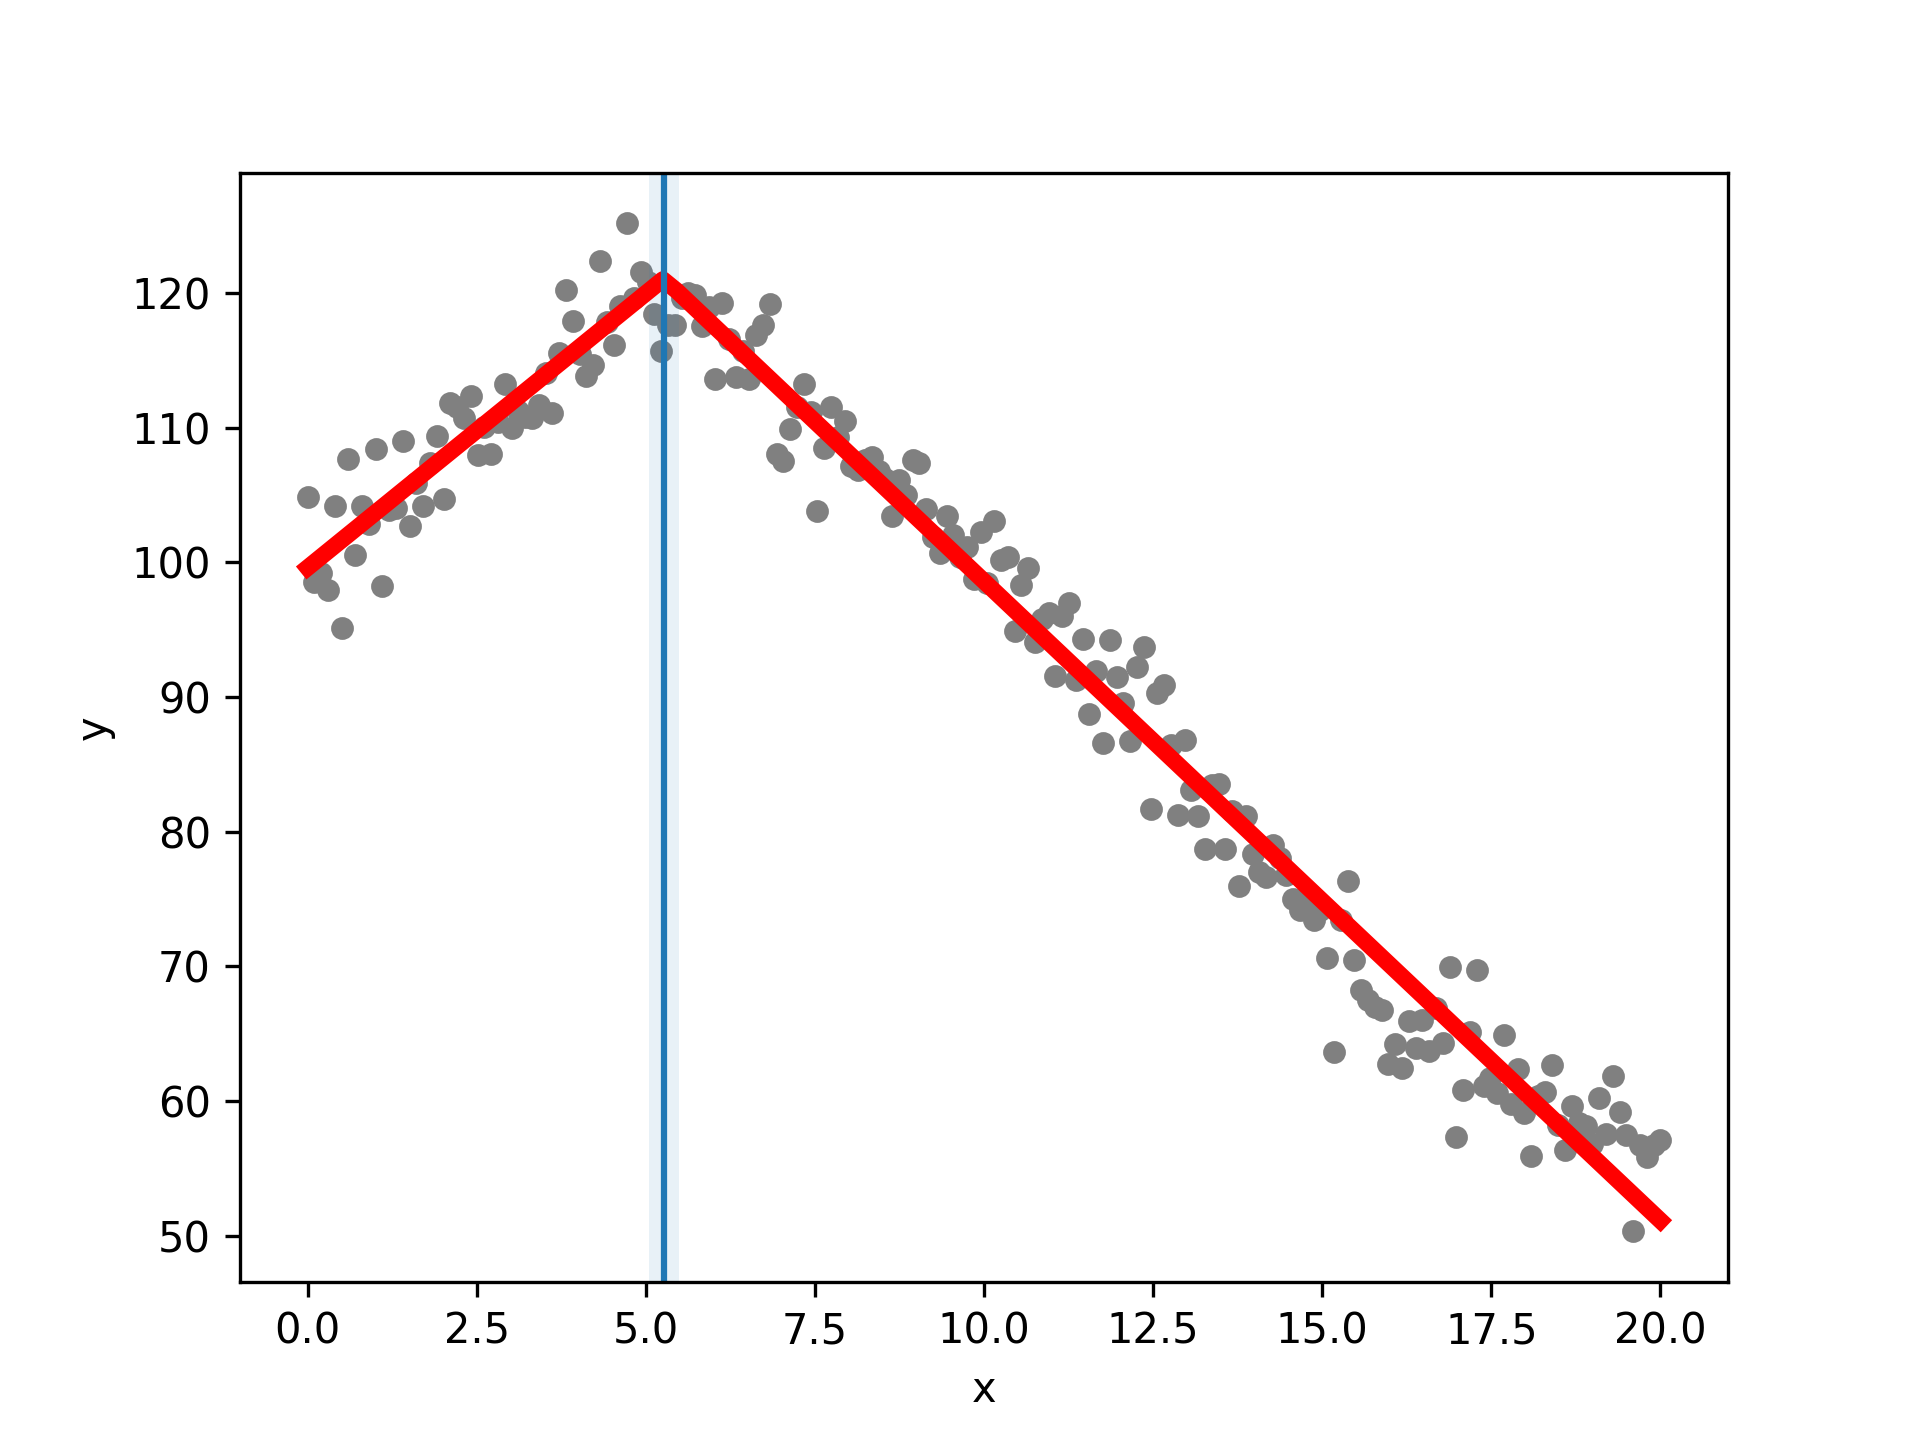
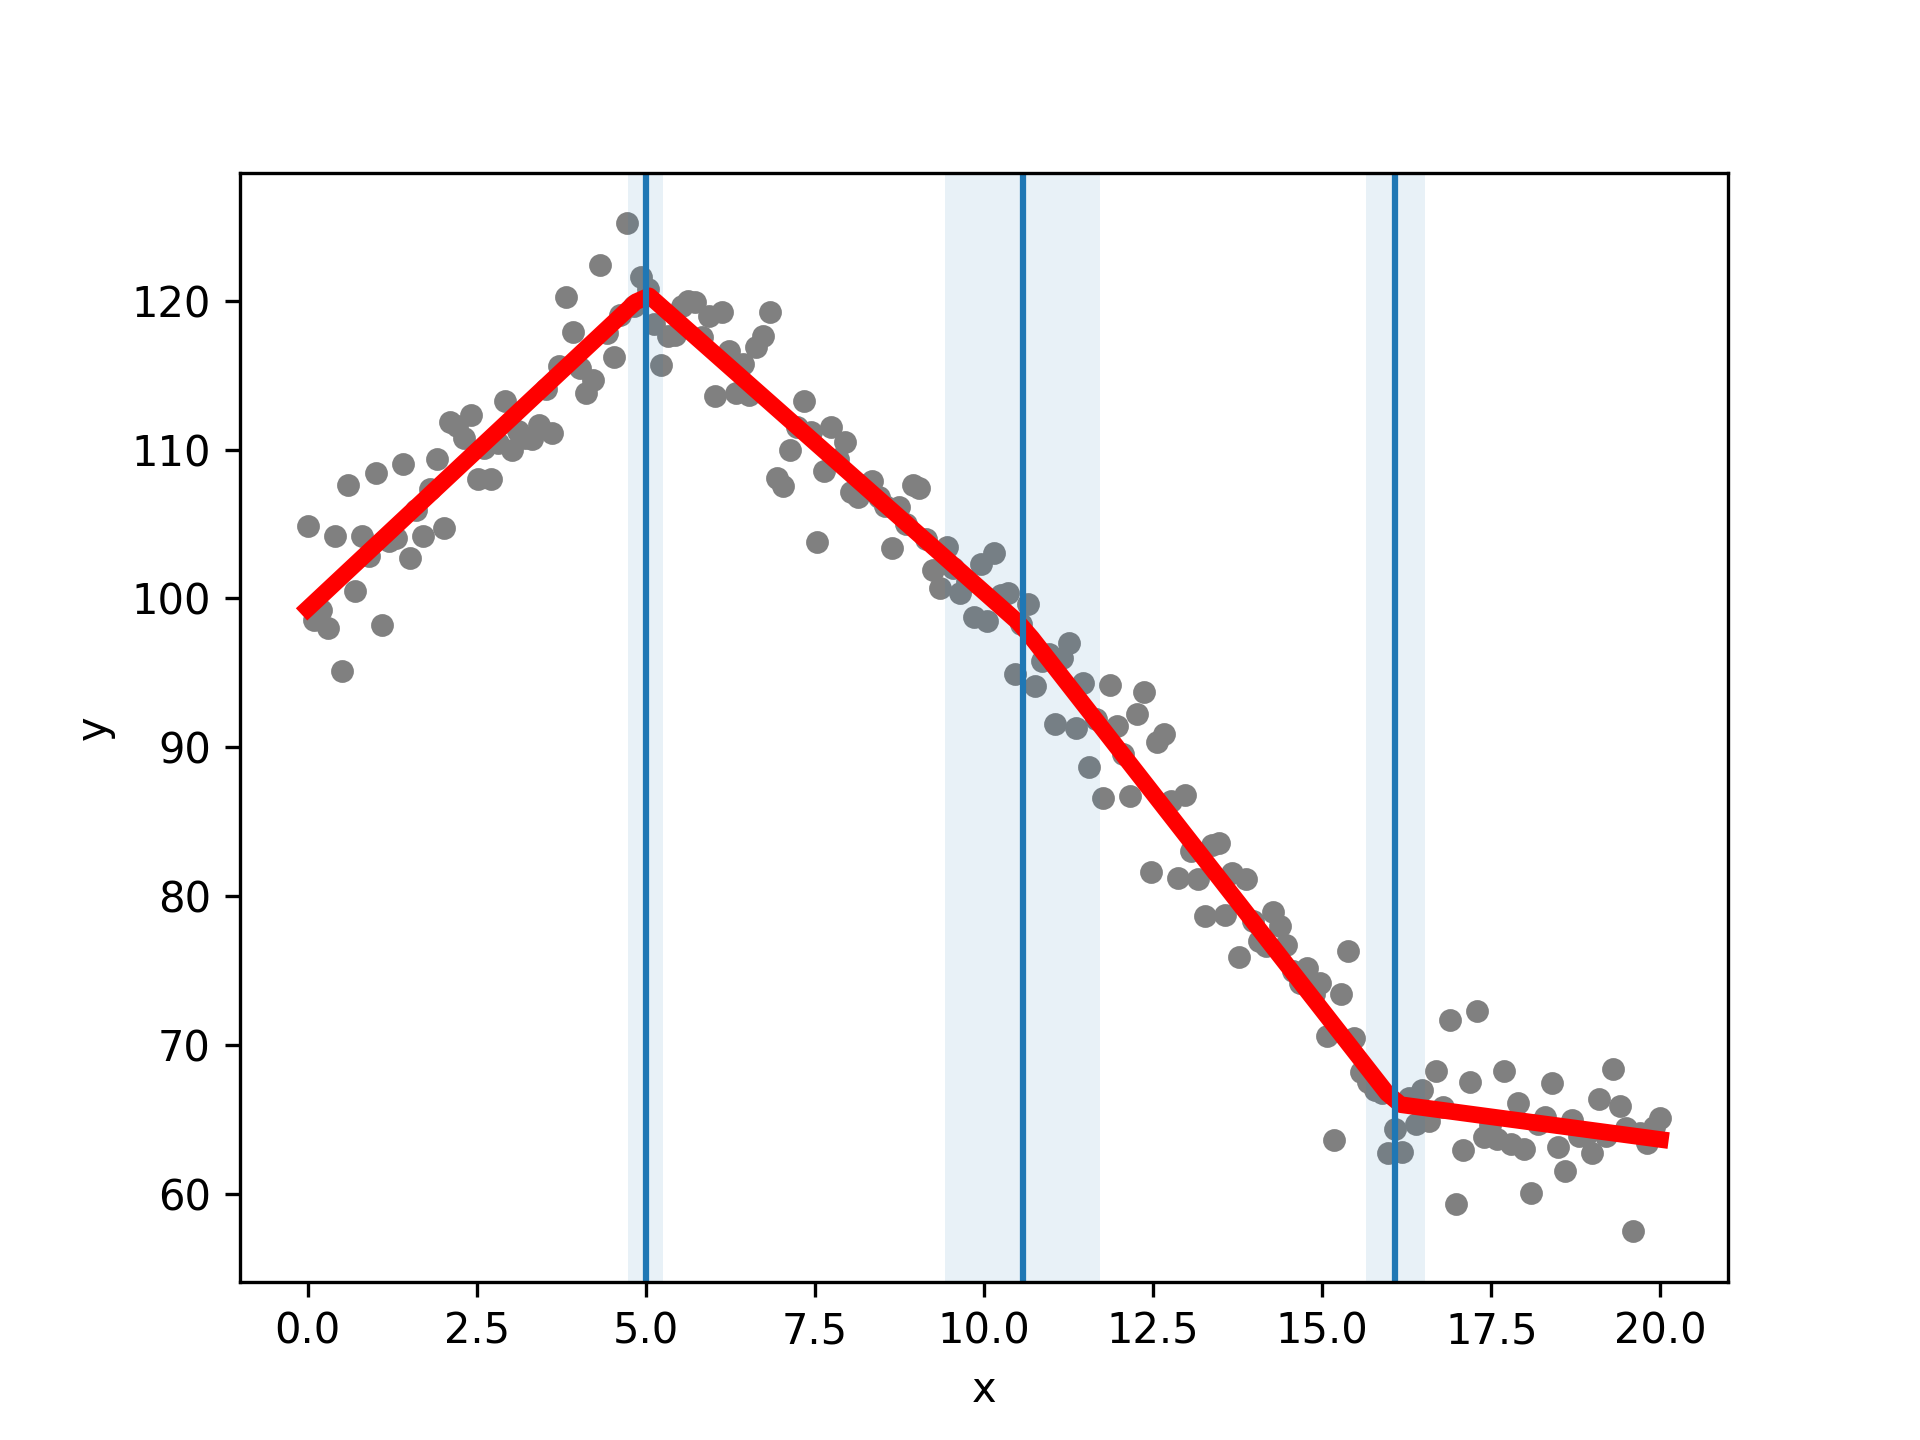
Changed the plot in the docs

diff --git a/paper/paper.py b/paper/paper.py
@@ -18,7 +18,7 @@ def plot_basic_example():
     alpha = 4
     beta_1 = -8
     beta_2 = -2
-    beta_3 = 3
+    beta_3 = 5
     intercept = 100
     breakpoint_1 = 5
     breakpoint_2 = 11
@@ -35,10 +35,7 @@ def plot_basic_example():
     yy += beta_3 * np.maximum(xx - breakpoint_3, 0)
     yy += np.random.normal(size=n_points) * noise
 
-    print(xx, yy)
-
-
-    bp_fit = Fit(xx, yy, start_values=[7])
+    bp_fit = Fit(xx, yy, start_values=[3,7,10])
 
     bp_fit.summary()
 
@@ -49,8 +46,6 @@ def plot_basic_example():
     
     plt.xlabel("x")
     plt.ylabel("y")
-
-    print("BIC is :", bp_fit.calculate_bayesian_information_criterion())
 
     plt.savefig("example.png", dpi=300)
     
@@ -105,4 +100,4 @@ def model_selection_basic_example():
     ms = ModelSelection(xx, yy, max_breakpoints=6)
 
 if __name__=="__main__":
-    model_selection_basic_example()
+    plot_basic_example()

diff --git a/README.rst b/README.rst
@@ -22,25 +22,37 @@ The package requires some x and y data to fit. You also need to specify either a
 Example
 ========================
 
-Here is a more detailed example. We start off genreating some data with a breakpoint, for demonstration purposes: ::
+Here is a more detailed example. We start off genreating some data with 3 breakpoints, for demonstration purposes: ::
 
 	import piecewise_regression
 	import numpy as np
 
-	alpha_1 = -4    
-	alpha_2 = -2
-	intercept = 100
-	breakpoint_1 = 7
-	n_points = 200
-	np.random.seed(0)
-	xx = np.linspace(0, 20, n_points)
-	yy = intercept + alpha_1*xx + (alpha_2-alpha_1) * np.maximum(xx - breakpoint_1, 0) + np.random.normal(size=n_points)
+	np.random.seed(1)
+
+    alpha = 4
+    beta_1 = -8
+    beta_2 = -2
+    beta_3 = 5
+    intercept = 100
+    breakpoint_1 = 5
+    breakpoint_2 = 11
+    breakpoint_3 = 16
+    n_points = 200
+    noise=3
+
+    xx = np.linspace(0, 20, n_points)
+
+    yy = intercept + alpha*xx 
+    yy += beta_1 * np.maximum(xx - breakpoint_1, 0) 
+    yy += beta_2 * np.maximum(xx - breakpoint_2, 0)  
+    yy += beta_3 * np.maximum(xx - breakpoint_3, 0)
+    yy += np.random.normal(size=n_points) * noise
 
 
 Now we fit the model: ::
 
     # Given some data, fit the model
-    bp_fit = Fit(xx, yy, start_values=[5], n_breakpoints=1)
+    bp_fit = piecewise_regression.Fit(xx, yy, start_values=[3,7,10])
 
     # Print a summary of the fit
     bp_fit.summary()
@@ -50,28 +62,34 @@ Example output: ::
 	                    Breakpoint Regression Results                     
 	====================================================================================================
 	No. Observations                      200
-	No. Model Parameters                    4
-	Degrees of Freedom                    196
-	Res. Sum of Squares               193.264
-	Total Sum of Squares              46201.8
-	R Squared                        0.995817
-	Adjusted R Squared               0.995731
+	No. Model Parameters                    8
+	Degrees of Freedom                    192
+	Res. Sum of Squares               1448.83
+	Total Sum of Squares              77195.4
+	R Squared                        0.981232
+	Adjusted R Squared               0.980446
 	Converged:                           True
 	====================================================================================================
 	====================================================================================================
 	                    Estimate      Std Err            t        P>|t|       [0.025       0.975]
 	----------------------------------------------------------------------------------------------------
-	const                100.726        0.244       413.63     3.1e-290       100.25       101.21
-	alpha1              -4.21998       0.0653      -64.605    4.37e-134      -4.3488      -4.0912
-	beta1                2.18914       0.0689       31.788            -       2.0533        2.325
-	breakpoint1          6.48706        0.137            -            -       6.2168       6.7573
+	const                99.3134        0.765       129.77    5.73e-189       97.804       100.82
+	alpha1               4.24777        0.268       15.861      9.3e-37       3.7196        4.776
+	beta1               -8.26555        0.347      -23.848            -      -8.9492      -7.5819
+	beta2               -1.80202        0.325      -5.5523            -      -2.4422      -1.1619
+	beta3                5.21108        0.456       11.423            -       4.3113       6.1109
+	breakpoint1          4.99612        0.129            -            -       4.7419       5.2503
+	breakpoint2           10.573        0.581            -            -        9.428       11.718
+	breakpoint3          16.0829        0.223            -            -       15.644       16.522
 	----------------------------------------------------------------------------------------------------
 	These alphas(gradients of segments) are estimated from betas(change in gradient)
 	----------------------------------------------------------------------------------------------------
-	alpha2              -2.03084       0.0218      -93.068    3.66e-164      -2.0739      -1.9878
+	alpha2              -4.01778         0.22      -18.262     7.58e-44      -4.4517      -3.5838
+	alpha3              -5.81981        0.239      -24.391     1.02e-60      -6.2904      -5.3492
+	alpha4             -0.608729        0.389      -1.5656        0.119      -1.3756      0.15816
 	====================================================================================================
 
-	Davies test for existence of at least 1 breakpoint: p=5.13032e-295 (e.g. p<0.05 means reject null hypothesis of no breakpoints at 5% significance)
+	Davies test for existence of at least 1 breakpoint: p=0.0 (e.g. p<0.05 means reject null hypothesis of no breakpoints at 5% significance)
 
 There are also tools for plotting data: ::
 
@@ -88,7 +106,7 @@ There are also tools for plotting data: ::
 	plt.show()
 	plt.close()
 
-.. image:: https://raw.githubusercontent.com/chasmani/piecewise-regression/master/paper/example2.png
+.. image:: https://raw.githubusercontent.com/chasmani/piecewise-regression/master/paper/example.png
     :alt: fit-example-plot
 
 How It Works
